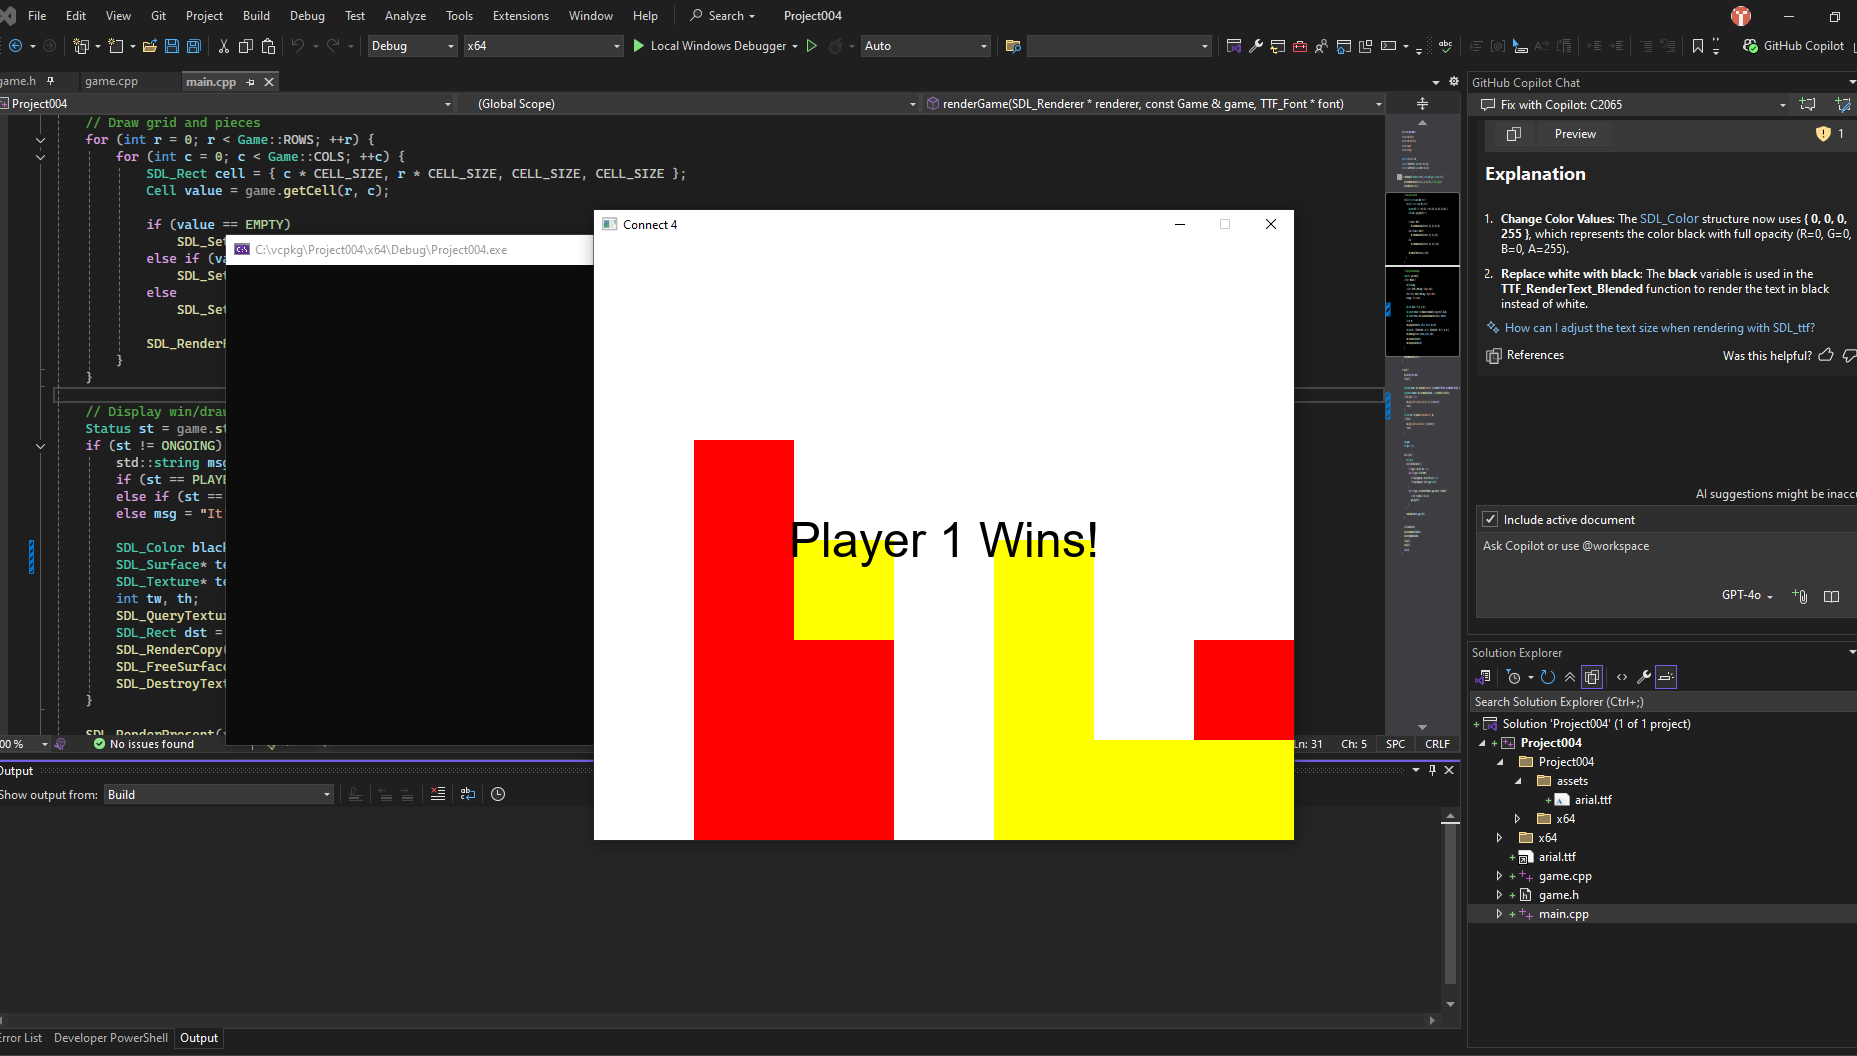
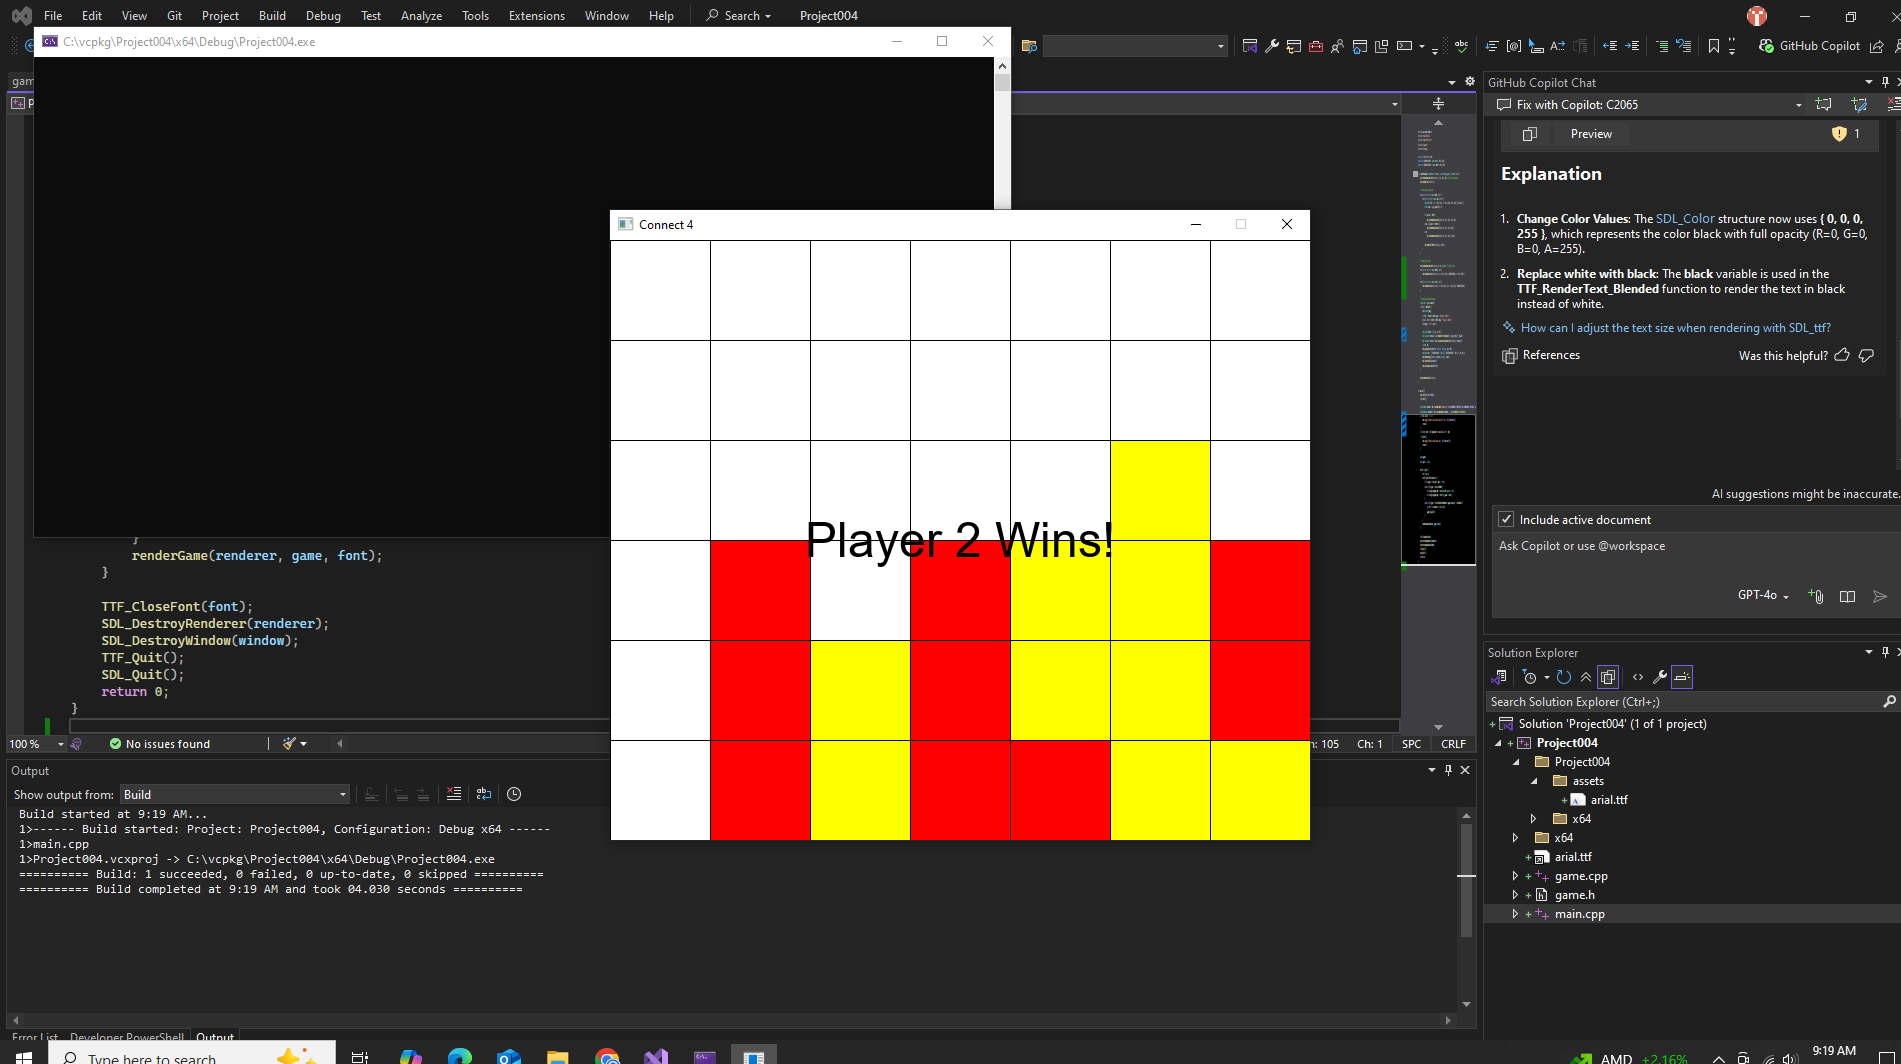
project 04 3rd and final submmision

diff --git a/projects/project04/main.cpp b/projects/project04/main.cpp
@@ -1,4 +1,4 @@
-#define SDL_MAIN_HANDLED
+#define SDL_MAIN_HANDLED 
 #include <SDL2/SDL.h>
 #include <SDL2/SDL_ttf.h>
 #include "game.h"
@@ -27,6 +27,15 @@ void renderGame(SDL_Renderer* renderer, const Game& game, TTF_Font* font) {
 
             SDL_RenderFillRect(renderer, &cell);
         }
+    }
+
+    // Draw grid lines
+    SDL_SetRenderDrawColor(renderer, 0, 0, 0, 255); // Black lines
+    for (int r = 0; r <= Game::ROWS; ++r) {
+        SDL_RenderDrawLine(renderer, 0, r * CELL_SIZE, SCREEN_WIDTH, r * CELL_SIZE);
+    }
+    for (int c = 0; c <= Game::COLS; ++c) {
+        SDL_RenderDrawLine(renderer, c * CELL_SIZE, 0, c * CELL_SIZE, SCREEN_HEIGHT);
     }
 
     // Display win/draw message
@@ -61,7 +70,7 @@ int main() {
         SDL_Log("Failed to initialize SDL_ttf: %s", TTF_GetError());
         return 1;
     }
-    TTF_Font* font = TTF_OpenFont("assets/Arial.ttf", 48);  
+    TTF_Font* font = TTF_OpenFont("assets/Arial.ttf", 48);
     if (!font) {
         SDL_Log("Failed to load font: %s", TTF_GetError());
         return 1;
